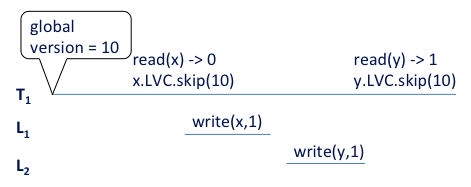
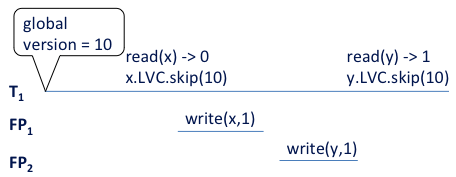
Section 4 - new API and semantics for local transactions

diff --git a/new-api.tex b/new-api.tex
@@ -1,60 +1,83 @@
 
 
-\Idit{Todo: update API to include brc, bwc, br, wc, and example combinations, some of which are supported.}
+The main goal of our fast path  is to forgo the overhead associated with two-phase transaction processing, especially for short transactions.
+In particular, the fast path can eliminate the need for remote access in local (single-region) transactions and can reduce the number of 
+calls (RPCs) the client performs.
+To this end, we introduce in Section~\ref{ssec:fast-api} a streamlined API that jointly executes multiple API calls of the original TPS. 
+We refer to transactions that use this API as \emph{fast path (FP) transactions}.
+We discuss the semantics of FP transactions relative to regular ones in Section~\ref{ssec:fast-semantics}.
 
-We support a restricted set of local transactions, focusing on short ones that
-frequently occur in production. Recall that short transactions benefit most from
-our optimizations since for them, the overhead of performing centralized coordination once or twice
-per transaction is significant.
+\subsection{API and usage}
+\label{ssec:fast-api}
 
-There are two distinctive characteristics of local transactions. First, they
-must access a single region. Second, in contrast to regular transactions, they
-cannot dynamically evolve, but rather must be provided in their entirety with a
-single API call: 
-local transactions forgo the standard API including begin and commit operations,
-and instead invoke a single function for executing the entire transaction. The
-new API functions for local transactions are prefixed with \code{LTX\_}. 
+For brevity, we refer to the TPS's API calls  begin, read, write, and commit as $b, r, w$, and $c$ respectively. 
+We now combine them to allow fast processing.
+The simplest examples of FP transactions are singletons, i.e., transactions that perform a single
+read or write. These are supported by the APIs:
+\begin{description}
+\item[br(key)] -- begins an FP transaction and reads key within it; 
+\item[bwc(key,val)] -- begins an FP transaction,  writes val into a new version of key that exceeds all existing ones, and commits.
+\end{description}
 
-The simplest examples are singleton transactions, i.e., transactions that perform a single
-read operation via \code{LTX\_read(key)} or a single update via \code{LTX\_write(key, value)}. 
-The latter creates a new version for key that exceeds all existing ones.
+A more elaborate example is a read-modify-write API: 
+\begin{description}
+\item[brwc(key,$f$)] -- begins an FP transaction,  reads the latest version of key, applies $f$ to it, 
+	writes the result into a new version of key that exceeds all existing ones, and commits.
+\end{description}
 
-A more elaborate example is a multi-read-single-write API, \code{LTX\_MRSW(\wkey, \rkeys, f)}, 
-which atomically reads values associated  with a list of \rkeys and updates the value associated with
-\wkey according to some function f of the read values. Note that this API
-is applicable only in case \wkey and all \rkeys reside in the same region. In case
-they do not, the call fails, and the transaction may be restarted as a regular
-transaction.
+To use the above API, the programmer has to encapsulate the transaction logic in a function for server-side processing. 
+Alternatively, we allow FP transactions to unfold dynamically much like regular  transactions do.
+A dynamic FP transaction may instead begin with a $br$ call, perform client-side processing, and then call the following
+function to update either the same or a different key: 
 
-The semantics for ordering local transactions relative to regular ones are
+\begin{description}
+\item[wc(key,val)] -- writes val into a new version of key that exceeds all existing ones, and commits.
+\end{description}
+
+Moreover, we do not restrict FP transactions to perform a single read -- any number of $r$'s may be called between the $br$ and $wc$.
+Note, however, that all calls must be directed at the same region, else the transaction is not local.
+In case an FP transaction dynamically discovers that it needs to access additional regions, it is aborted and should be restarted as a regular transaction. 
+In principle, it is also possible to invoke $w$ calls in the span of an FP transaction, but in this case we cannot forgo the two-phase execution. 
+That is, the $w$ calls must indicate write intents, to be atomically committed (or aborted) during the final $wc$ (or $c$) call. 
+
+
+\subsection{Semantics}
+\label{ssec:fast-semantics}
+
+The semantics for ordering FP transactions relative to regular ones are
 weaker than SI in that they do not guarantee real-time order over all regular
-and local transactions together. Specifically, a regular transaction overlapping
-two local transactions that access different regions may observe the updates of
-the second and miss an update by the first. For example, assume objects x and y
+and FP transactions together. Specifically, a regular transaction overlapping
+two FP ones that access different regions may observe an update of
+the second and miss an update by the first. For example, assume objects $x$ and $y$
 are managed in two different regions, then real-time order can be violated as
 illustrated in Figure~\ref{fig:ltx-rt} (ignore the skip operations for now; they will be explained in the next section).
 
 \begin{figure}[h]
 \includegraphics[width=\columnwidth]{LTX-RT}
-\caption{Possible violation of real-time order among local transactions in different regions. Global transaction $T_1$
-reads $x$ before it is updated by local transaction $L_1$ and reads $y$ after it is updated by local transaction $L_2$ even 
-though $L_2$ occurs after $L_1$. $T1$'s global version is $10$, and its skips the local version clocks of the regions holding $x$ and $y$ to $10$ when reading from them.}
+\caption{Possible violation of real-time order among fast path (FP) transactions in different regions. Global transaction $T_1$
+reads $x$ before it is updated by FP transaction $FP_1$ and reads $y$ after it is updated by FP transaction $FP_2$ even 
+though $FP_2$ occurs after $FP_1$. $T1$'s global version is $10$, and its skips the local version clocks of the regions holding $x$ and $y$ to $10$ when reading from them.}
 \label{fig:ltx-rt}
 \end{figure}
 
-The system still enforces a total order on all committed transactions, so that
+The system still enforces a total order ${\cal T}$ on all committed transactions, so that
 \begin{enumerate}
     \setlength{\itemsep}{0pt}
     \setlength{\parskip}{0pt}
     \setlength{\parsep}{2pt}  
 \item
-regular transactions (though not local ones) are ordered according to their commit times;
+regular transactions (though not FP ones) are ordered in ${\cal T}$  according to their commit times;
+\item
+FP transactions within each region are ordered in ${\cal T}$  according to their commit times;
 \item
 each transaction's read operations see a consistent snapshot of the database reflecting 
-a sequence of transactions that includes all those committed prior to
-its start time plus any number of concurrent local transactions; and 
+a prefix of  ${\cal T}$ that includes all transactions committed prior to
+its start time plus any number of concurrent FP transactions; and 
 \item
  a transaction commits only if none of the items it updates has been modified since that snapshot.
  \end{enumerate}
 
-\idit{Todo: add a note about causality being preserved because re-ordering can only occur across regions.}
+Note that since ${\cal T}$  respects commit-times per-region, causality is preserved, because 
+re-ordering can only occur in case transactions access disjoint  sets of data objects.
+
+

diff --git a/main.tex b/main.tex
@@ -108,10 +108,10 @@ We review related work in Section ~\ref{sec:related} and conclude with Section ~
 \section{Context and Applicability} \label{sec:context}
 \input{context}
 
-\section{API and Semantics for Fast-Path Local Transactions} \label{sec:new-api}
+\section{Introducing Fast-Path Local Transactions} \label{sec:new-api}
 \input{new-api}
 
-\section{Algorithm for Fast-Path Local Transactions} \label{sec:alg}
+\section{Algorithm for FP Transaction Processing} \label{sec:alg}
 \input{algorithm}
 
 \Idit{Todo: add the validation in regular transaction writes}

diff --git a/context.tex b/context.tex
@@ -102,4 +102,7 @@ In more detail, a transaction goes through the following phases:
   transaction.}
 \end{enumerate}
 
+Stages 3--6 are performed as part of a commit operation. 
+We note that in case a transaction is read-only, i.e., does not perform updates, these stages may be skipped.
+
  
